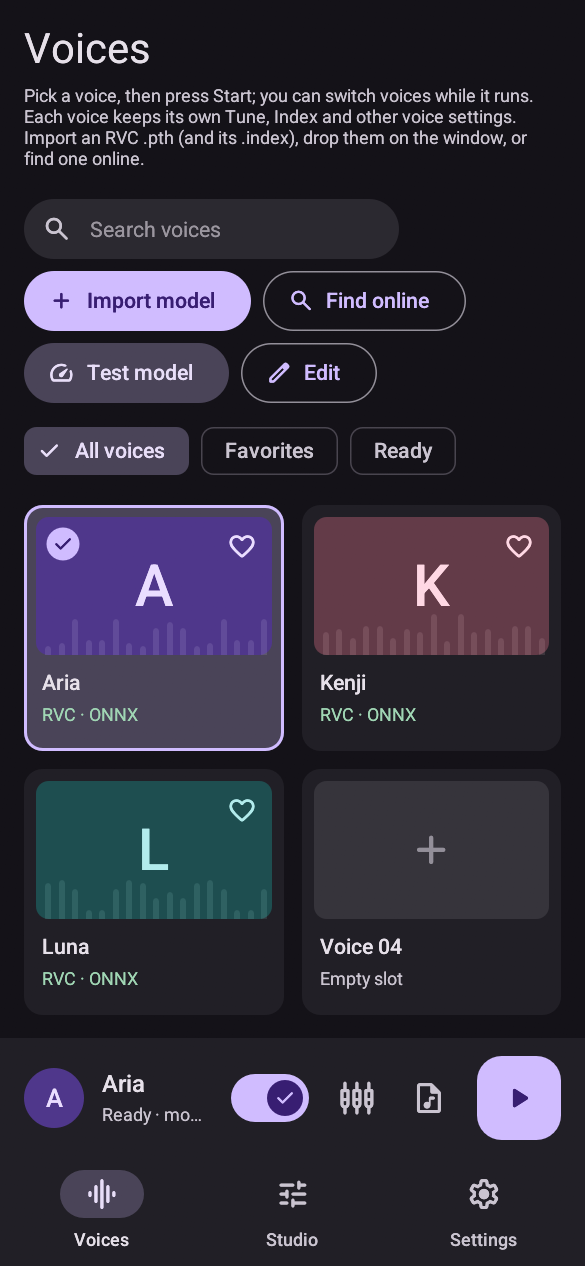
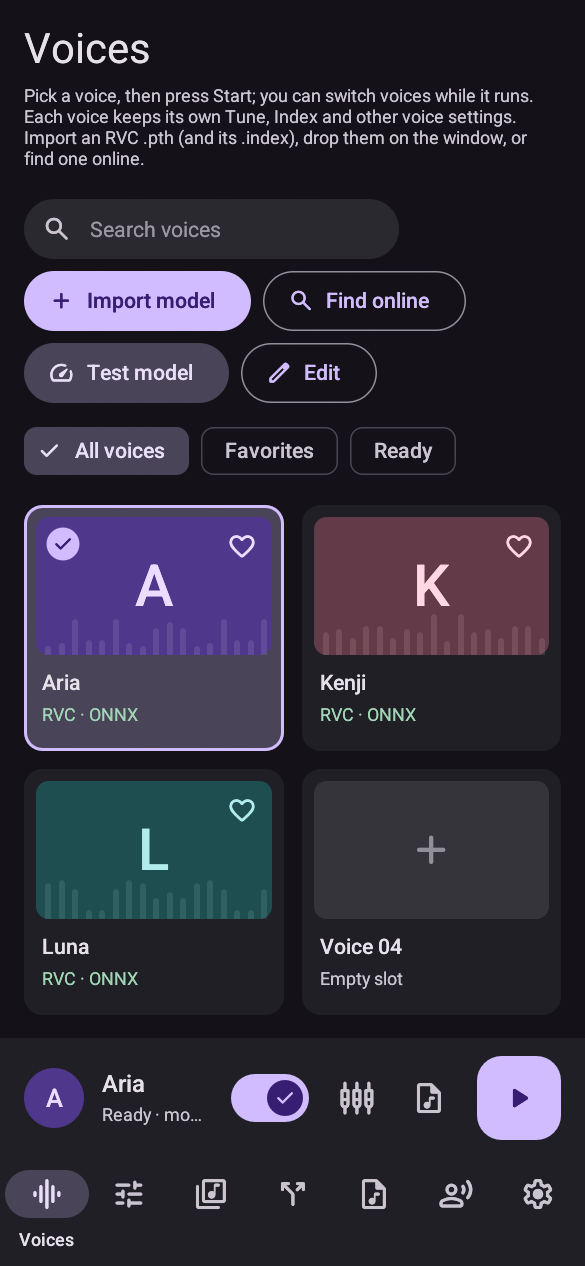
Show the current interface in the README screenshots, with the Cover page

diff --git a/native-rust/README.md b/native-rust/README.md
@@ -4,7 +4,7 @@ A Rust + egui prototype based on the audio flow of the original Python applicati
 
 ![Desktop preview](docs/preview-desktop.png)
 
-[Studio preview](docs/preview-studio.png) · [Narrow layout preview](docs/preview-mobile.png)
+[Studio preview](docs/preview-studio.png) · [Cover preview](docs/preview-cover.png) · [Narrow layout preview](docs/preview-mobile.png)
 
 The application does not launch Python, a browser, or a server. It uses eframe/egui and WGPU for the interface, CPAL for audio, crossbeam-queue for bounded audio queues, and ort for ONNX inference. ONNX Runtime and operating-system audio/graphics libraries are native dependencies; “Rust application” does not mean every dependency is implemented in Rust.
 

diff --git a/README.md b/README.md
@@ -13,6 +13,8 @@ No Python, no browser, no local server: one desktop app.
 
 <img src="native-rust/docs/preview-desktop.png" alt="Voice Changer main window: a gallery of voice cards with a detail pane and an audio control bar" width="820">
 
+<img src="native-rust/docs/preview-cover.png" alt="The Cover page: a voice, a song and its output file, with Tune, voice volume and music volume" width="820">
+
 </div>
 
 ## About
